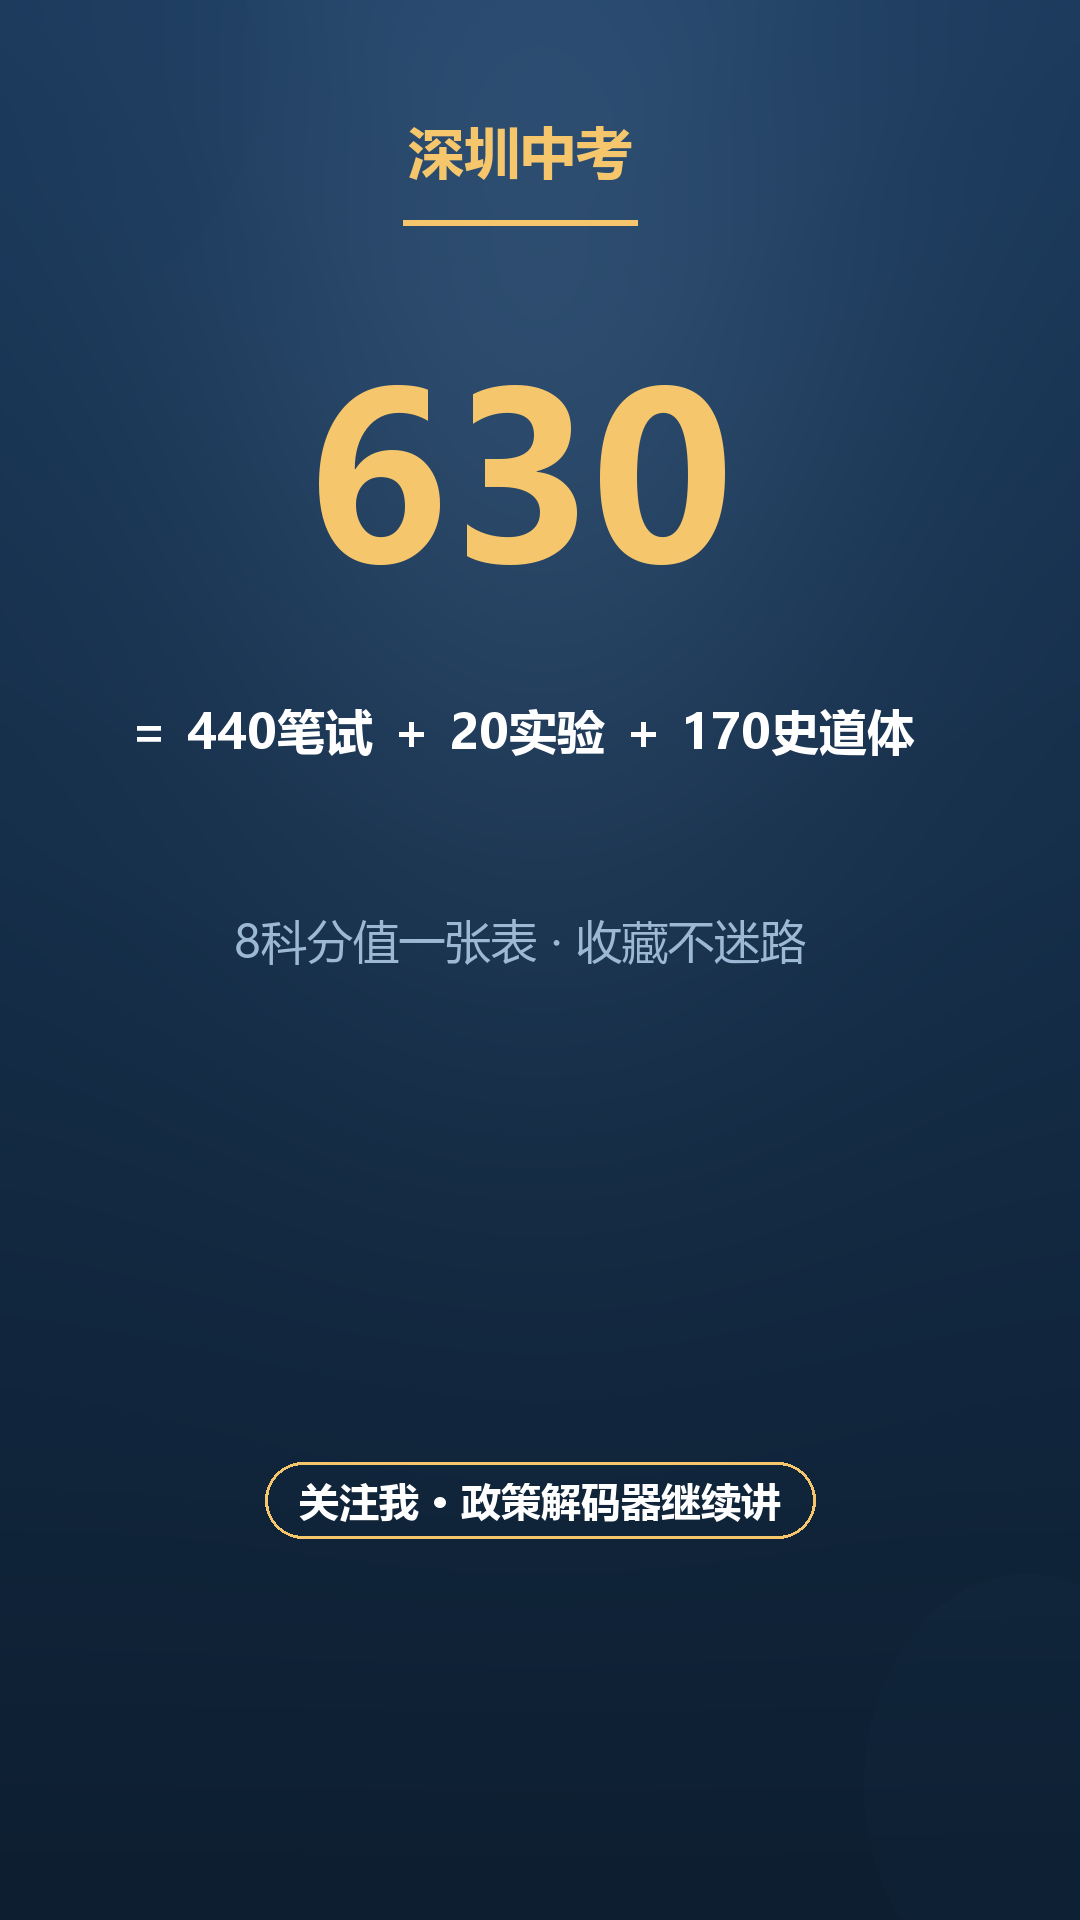
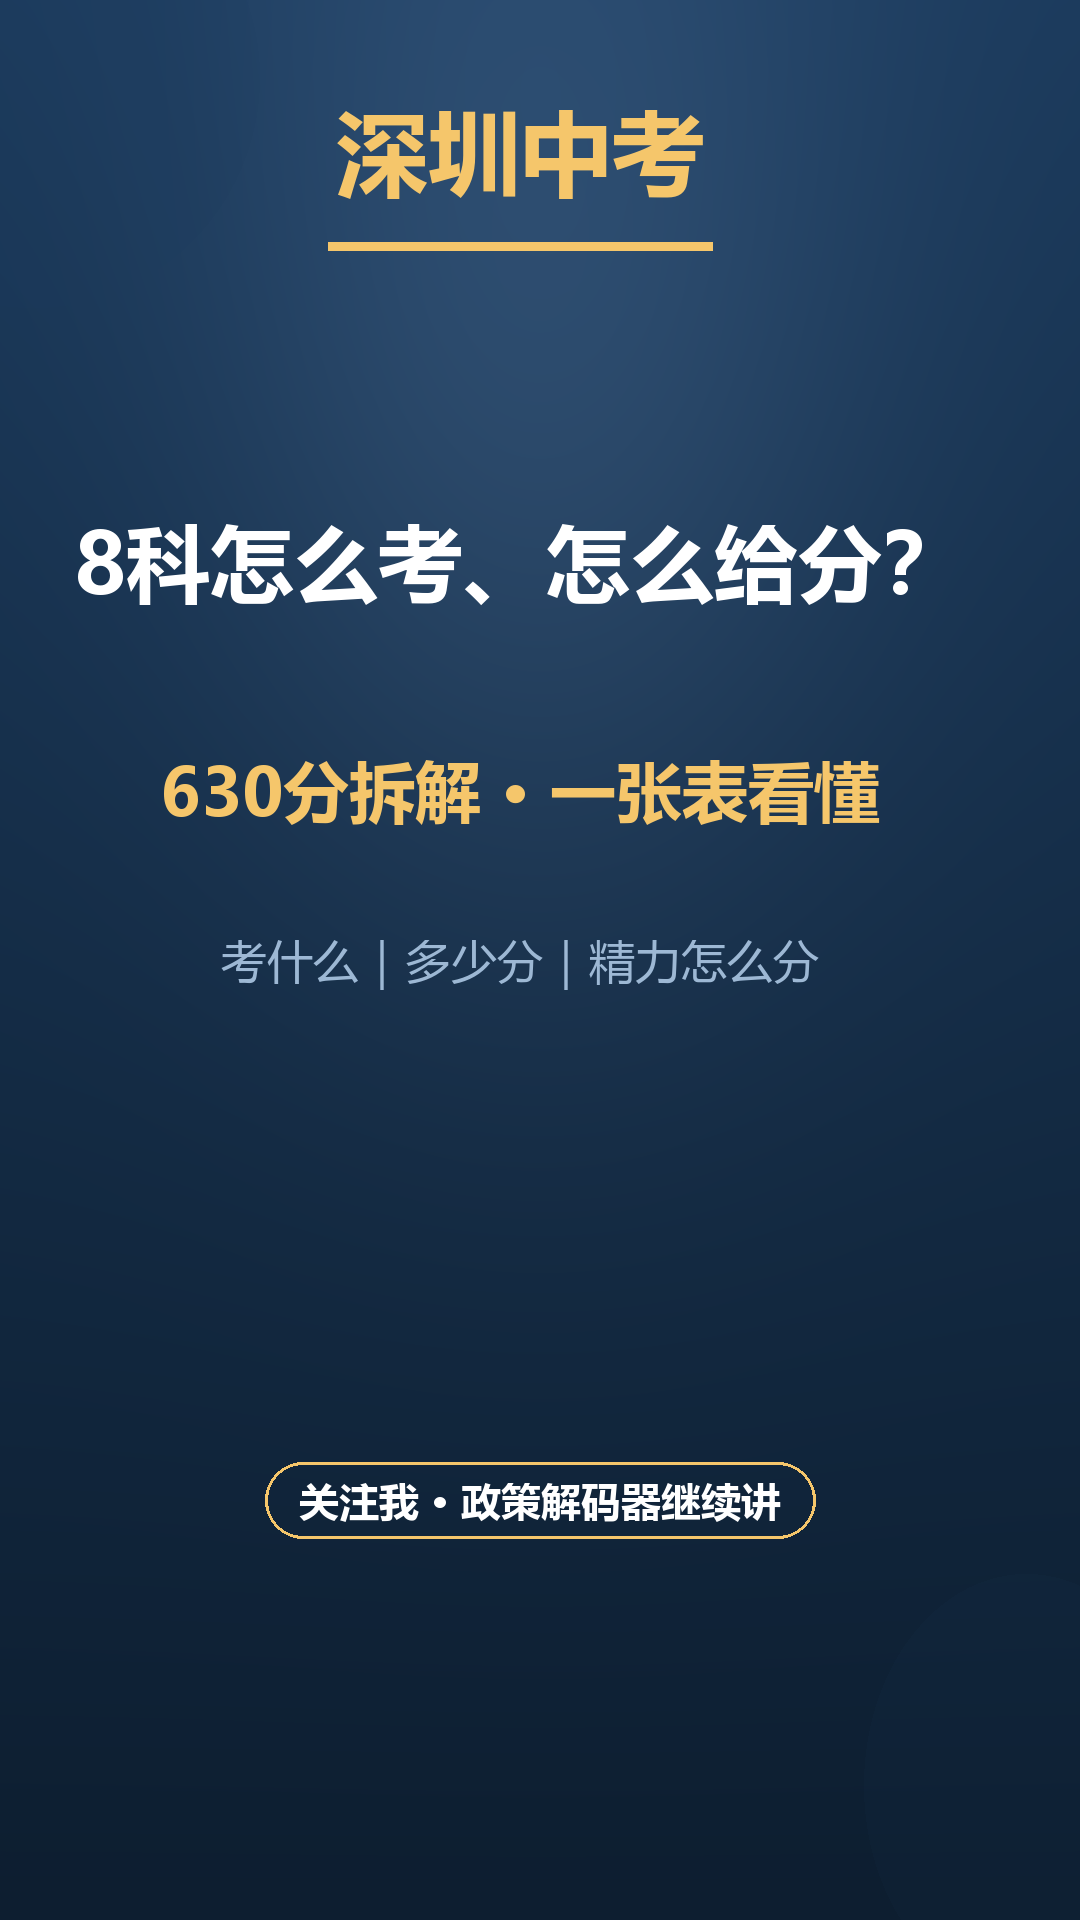
docs: S1封面v2——第一眼=深圳中考，主句问题+承诺，等式撤出封面；同步抖音/小红书md封面字

diff --git a/docs/03-内容创作-深圳中考志愿填报/P1-政策解码器/P1-2-计分规则拆解/子任务S1-630构成与科目分值/_build_s1_assets.py b/docs/03-内容创作-深圳中考志愿填报/P1-政策解码器/P1-2-计分规则拆解/子任务S1-630构成与科目分值/_build_s1_assets.py
@@ -1,5 +1,5 @@
 # -*- coding: utf-8 -*-
-"""S1 头条/抖音/小红书 三平台配图（口径可对账 440+20+170=630）"""
+"""S1 头条/抖音/小红书 配图 v2：第一眼=深圳中考；主句=问题+承诺；等式不上封面"""
 from PIL import Image, ImageDraw, ImageFont
 import numpy as np, os
 FB = "C:/Windows/Fonts/msyhbd.ttc"; FR = "C:/Windows/Fonts/msyh.ttc"
@@ -9,7 +9,7 @@ LIGHT = (157, 184, 212); SUB = (201, 217, 232)
 HERE = os.path.dirname(os.path.abspath(__file__)) + "/"
 
 
-def base(w, h, gx=0.5, gy=0.18):
+def base(w, h, gx=0.5, gy=0.16):
     T = np.array(TOP, float); B = np.array(BOT, float)
     t = np.linspace(0, 1, h)[:, None, None]
     a = T[None, None, :] * (1 - t) + B[None, None, :] * t
@@ -29,7 +29,7 @@ def put(d, text, xy, size, fill, w, bold=True, maxw=None):
     fp = FB if bold else FR
     f = ImageFont.truetype(fp, size)
     mw = maxw if maxw else w - 120
-    while f.size > 16:
+    while f.size > 12:
         bb = d.textbbox((0, 0), text, font=f, anchor="mm")
         if bb[2] - bb[0] <= mw + 1:
             break
@@ -51,34 +51,34 @@ def pill(d, text, cy, size, w, pad=34):
 
 # ---- 头条封面 1200×900 ----
 im, d = base(1200, 900)
-pill(d, "深圳中考 · 备考策略", 120, 30, 1200, pad=30)
-put(d, "630分怎么来的？", (600, 330), 104, WHITE, 1200, True, 1080)
-put(d, "8 科作战表 · 口径可对账", (600, 500), 86, GOLD, 1200, True, 1080)
-put(d, "440笔试 ＋ 20理化实验 ＋ 170史道体 ＝ 630", (600, 660), 48, LIGHT, 1200, False, 1080)
+fk = put(d, "深圳中考", (600, 96), 66, GOLD, 1200, True, 1000)
+tw = d.textlength("深圳中考", font=fk); d.line([(600 - tw/2 - 6, 172), (600 + tw/2 + 6, 172)], fill=GOLD, width=7)
+put(d, "8科怎么考、怎么给分？", (600, 360), 104, WHITE, 1200, True, 1080)
+put(d, "630分拆解 · 一张表看懂", (600, 560), 78, GOLD, 1200, True, 1080)
+put(d, "考什么｜多少分｜精力怎么分", (600, 700), 42, LIGHT, 1200, False, 1080)
 put(d, "数据来源：深圳市教育局公开信息 · 人工核对", (600, 852), 22, SUB, 1200, False)
 im.save(HERE + "02.今日头条/S1-630构成-头条-封面-1200x900.png")
-print("saved 头条封面")
+print("saved 头条封面 v2")
 
-# ---- 抖音首图 1080×1920（右≤950 / 内容≤y1590） ----
-im, d = base(1080, 1920, 0.5, 0.16)
-fk = put(d, "深圳中考", (520, 150), 56, GOLD, 1080, True, 800)
-tw = d.textlength("深圳中考", font=fk); d.line([(520 - tw/2 - 5, 222), (520 + tw/2 + 5, 222)], fill=GOLD, width=6)
-put(d, "630", (520, 470), 230, GOLD, 1080, True, 760)
-put(d, "＝ 440笔试 ＋ 20实验 ＋ 170史道体", (520, 730), 54, WHITE, 1080, True, 800)
-put(d, "8科分值一张表 · 收藏不迷路", (520, 940), 46, LIGHT, 1080, False, 800)
+# ---- 抖音首图 1080×1920 ----
+im, d = base(1080, 1920)
+fk = put(d, "深圳中考", (520, 150), 92, GOLD, 1080, True, 820)
+tw = d.textlength("深圳中考", font=fk); d.line([(520 - tw/2 - 8, 246), (520 + tw/2 + 8, 246)], fill=GOLD, width=9)
+put(d, "8科怎么考、怎么给分？", (520, 560), 92, WHITE, 1080, True, 900)
+put(d, "630分拆解 · 一张表看懂", (520, 790), 66, GOLD, 1080, True, 900)
+put(d, "考什么｜多少分｜精力怎么分", (520, 960), 46, LIGHT, 1080, False, 900)
 pill(d, "关注我 · 政策解码器继续讲", 1500, 40, 1080, pad=34)
 im.save(HERE + "03.抖音/S1-630构成-抖音-首图-1080x1920.png")
-print("saved 抖音首图")
+print("saved 抖音首图 v2")
 
-# ---- 小红书封面（互补版·封面标题=结论向） 1080×1440 ----
-im, d = base(1080, 1440, 0.5, 0.18)
-fk = put(d, "深圳中考 · 备考策略", (540, 130), 34, GOLD, 1080, True, 960)
-tw = d.textlength("深圳中考 · 备考策略", font=fk); d.line([(540 - tw/2 - 4, 178), (540 + tw/2 + 4, 178)], fill=GOLD, width=4)
-put(d, "8 科作战表", (540, 360), 116, WHITE, 1080, True, 960)
-put(d, "630 口径可对账", (540, 560), 92, GOLD, 1080, True, 960)
-put(d, "440笔试 ＋ 20实验 ＋ 170史道体 ＝ 630", (540, 800), 44, LIGHT, 1080, False, 960)
-pill(d, "语文·数学·英语·物化笔试 = 440", 1060, 36, 1080, pad=40)
+# ---- 小红书封面（互补版） 1080×1440 ----
+im, d = base(1080, 1440)
+fk = put(d, "深圳中考", (540, 150), 92, GOLD, 1080, True, 960)
+tw = d.textlength("深圳中考", font=fk); d.line([(540 - tw/2 - 8, 246), (540 + tw/2 + 8, 246)], fill=GOLD, width=9)
+put(d, "8科怎么考、怎么给分？", (540, 520), 104, WHITE, 1080, True, 960)
+put(d, "630分拆解 · 一张表看懂", (540, 760), 72, GOLD, 1080, True, 960)
+put(d, "主科优先 · 实验跟练 · 副科稳住", (540, 940), 42, LIGHT, 1080, False, 960)
 put(d, "备考策略 · 收藏不迷路 · 数据见正文", (540, 1280), 28, SUB, 1080, False)
 im.save(HERE + "04.小红书/S1-630构成-小红书-封面-互补版-1080x1440.png")
-print("saved 小红书封面")
+print("saved 小红书封面 v2")
 print("done")

diff --git a/docs/03-内容创作-深圳中考志愿填报/P1-政策解码器/P1-2-计分规则拆解/子任务S1-630构成与科目分值/01.公众号/_build_s1_cover.py b/docs/03-内容创作-深圳中考志愿填报/P1-政策解码器/P1-2-计分规则拆解/子任务S1-630构成与科目分值/01.公众号/_build_s1_cover.py
@@ -1,11 +1,10 @@
 # -*- coding: utf-8 -*-
-"""S1 公众号封面 900×383：信息前置（结论可对账口径为视觉焦点）"""
+"""S1 公众号封面 900×383（v2）：第一眼=深圳中考；主句=问题+承诺；等式不上封面"""
 from PIL import Image, ImageDraw, ImageFont
 import numpy as np, os
 FB = "C:/Windows/Fonts/msyhbd.ttc"
 TOP = (27, 58, 92); BOT = (13, 30, 48)
-WHITE = (255, 255, 255); GOLD = (245, 198, 107)
-LIGHT = (157, 184, 212); SUB = (201, 217, 232)
+WHITE = (255, 255, 255); GOLD = (245, 198, 107); LIGHT = (157, 184, 212); SUB = (201, 217, 232)
 OUT = os.path.dirname(os.path.abspath(__file__)) + "/"
 W, H = 900, 383
 T = np.array(TOP, float); B = np.array(BOT, float)
@@ -13,28 +12,29 @@ t = np.linspace(0, 1, H)[:, None, None]
 a = T[None, None, :] * (1 - t) + B[None, None, :] * t
 a = np.repeat(a, W, axis=1)
 y, x = np.mgrid[0:H, 0:W]
-g = np.exp(-(((x - W * 0.5) / (W * 0.30)) ** 2 + ((y - H * 0.16) / (H * 0.42)) ** 2))
+g = np.exp(-(((x - W * 0.5) / (W * 0.30)) ** 2 + ((y - H * 0.14) / (H * 0.40)) ** 2))
 a = a + np.array((180, 205, 235), float)[None, None, :] * (g * 0.10)[..., None]
 im = Image.fromarray(np.clip(a, 0, 255).astype(np.uint8), "RGB")
 d = ImageDraw.Draw(im)
 
 
-def put(txt, xy, size, fill, bold=True, maxw=850):
-    fpath = FB if bold else "C:/Windows/Fonts/msyh.ttc"
-    f = ImageFont.truetype(fpath, size)
-    while f.size > 14:
+def put(txt, xy, size, fill, maxw=860):
+    f = ImageFont.truetype(FB, size)
+    while f.size > 12:
         bb = d.textbbox((0, 0), txt, font=f, anchor="mm")
         if bb[2] - bb[0] <= maxw + 1:
             break
-        f = ImageFont.truetype(fpath, f.size - 1)
+        f = ImageFont.truetype(FB, f.size - 1)
     d.text(xy, txt, font=f, fill=fill, anchor="mm")
     return f
 
 
-fk = put("深圳中考", (W / 2, 46), 44, GOLD)
+# 第一眼：深圳中考（大金字 + 下划线）
+fk = put("深圳中考", (W / 2, 62), 58, GOLD)
 tw = d.textlength("深圳中考", font=fk)
-d.line([(W / 2 - tw / 2 - 5, 92), (W / 2 + tw / 2 + 5, 92)], fill=GOLD, width=5)
-put("630分怎么来？一张表看懂", (W / 2, 172), 52, WHITE)
-put("440笔试＋20实验＋170史道体 ＝ 630", (W / 2, 300), 38, GOLD, True, 840)
+d.line([(W / 2 - tw / 2 - 6, 122), (W / 2 + tw / 2 + 6, 122)], fill=GOLD, width=6)
+# 主句（问题）+ 承诺
+put("8科怎么考、怎么给分？", (W / 2, 216), 52, WHITE)
+put("630分拆解 · 一张表看懂", (W / 2, 316), 40, GOLD)
 im.save(OUT + "S1-630构成与科目分值-公众号-封面-900x383.png")
-print("saved S1 公众号封面")
+print("saved S1 公众号封面 v2")

diff --git a/docs/03-内容创作-深圳中考志愿填报/P1-政策解码器/P1-2-计分规则拆解/子任务S1-630构成与科目分值/03.抖音/S1-630构成-抖音-口播-发布稿（新版本）.md b/docs/03-内容创作-深圳中考志愿填报/P1-政策解码器/P1-2-计分规则拆解/子任务S1-630构成与科目分值/03.抖音/S1-630构成-抖音-口播-发布稿（新版本）.md
@@ -7,9 +7,9 @@ article: "P1-2-S1"
 status: "口播发布稿·待人工终审后制作"
 duration: "约60秒 / 口播约250字"
 source: "公众号新版本同源；口径 440+20+170=630"
-title: "630分怎么来的？记住440+20+170"        # 10-15字
-cover_text: "630＝440＋20＋170"
-opening_text: "记住：440＋20＋170"             # ≤12字
+title: "630分怎么来的？8科一张表看懂"          # 10-15字
+cover_text: "深圳中考630分 · 8科怎么考怎么给分？"
+opening_text: "深圳中考 · 8科怎么考"             # ≤12字
 cover: "S1-630构成-抖音-首图-1080x1920.png"
 tags: [深圳中考, 中考, 初三, 升学规划]
 ---
@@ -17,13 +17,13 @@ tags: [深圳中考, 中考, 初三, 升学规划]
 # S1 · 抖音口播（答案前置版）
 
 ## 口播脚本
-**（开头大字·前3秒）** 记住 440＋20＋170，630 分就懂了。
-**（Hook 0-3秒）** 深圳中考 630 分，很多家长说不清它是怎么来的——其实一句话就讲得完。
+**（开头大字·前3秒）** 深圳中考 · 8科怎么考？
+**（Hook 0-3秒）** 630 分到底怎么来的，很多家长说不清——其实记住一句话就讲得完。
 **（主体）** 440 是笔试主科：语文120、数学100、英语100（含听说25）、物理化学笔试120。20 是理化实验——今年涨到 20 分，操作分刷题刷不出来，得跟着学校动手练。170 是历史70＋道法50＋体育50，稳住就行。加起来正好 630。
-**（CTA）** 把这串数字记下来，孩子哪科该多花时间，心里就有数了。关注我，政策解码器继续讲。
+**（CTA）** 孩子哪科该多花时间，看完这张表心里就有数了。关注我，政策解码器继续讲。
 
 ## 剪映制作说明（不粘进成片）
-1. 开头大字"记住：440＋20＋170"停留前 2-3 秒；
+1. 开头大字"深圳中考 · 8科怎么考？"停留前 2-3 秒；
 2. 字幕上移 1 行，避底部 UI；数字人工核对；
 3. 导出 9:16，时长 55-65 秒。
 
@@ -31,6 +31,6 @@ tags: [深圳中考, 中考, 初三, 升学规划]
 你家孩子哪科最该补？评论区聊聊👇
 
 ## 封面文字
-630 ＝ 440 ＋ 20 ＋ 170
+深圳中考630分 · 8科怎么考怎么给分？
 
 （数据见《2026年深圳市高中阶段学校考生报考指导手册》，人工核对。）

diff --git a/docs/03-内容创作-深圳中考志愿填报/P1-政策解码器/P1-2-计分规则拆解/子任务S1-630构成与科目分值/04.小红书/S1-630构成-小红书-图文-发布稿（新版本）.md b/docs/03-内容创作-深圳中考志愿填报/P1-政策解码器/P1-2-计分规则拆解/子任务S1-630构成与科目分值/04.小红书/S1-630构成-小红书-图文-发布稿（新版本）.md
@@ -7,7 +7,7 @@ article: "P1-2-S1"
 type: "图文笔记·发布稿"
 status: "发布稿·待人工终审后发布"
 title: "630分怎么来的？8科分值一张表搞定"            # 正文栏（问题向，≤20字）
-cover_text: "8科作战表｜630口径可对账"               # 封面标题（结论向，≠正文；D3 互补）
+cover_text: "深圳中考630分｜8科怎么考怎么给分？"       # 封面标题（第一眼=深圳中考；≠正文；D3 互补）
 cover: "S1-630构成-小红书-封面-互补版-1080x1440.png"
 tags: [深圳中考, 中考复习, 初三, 深圳家长, 升学规划]
 ---
